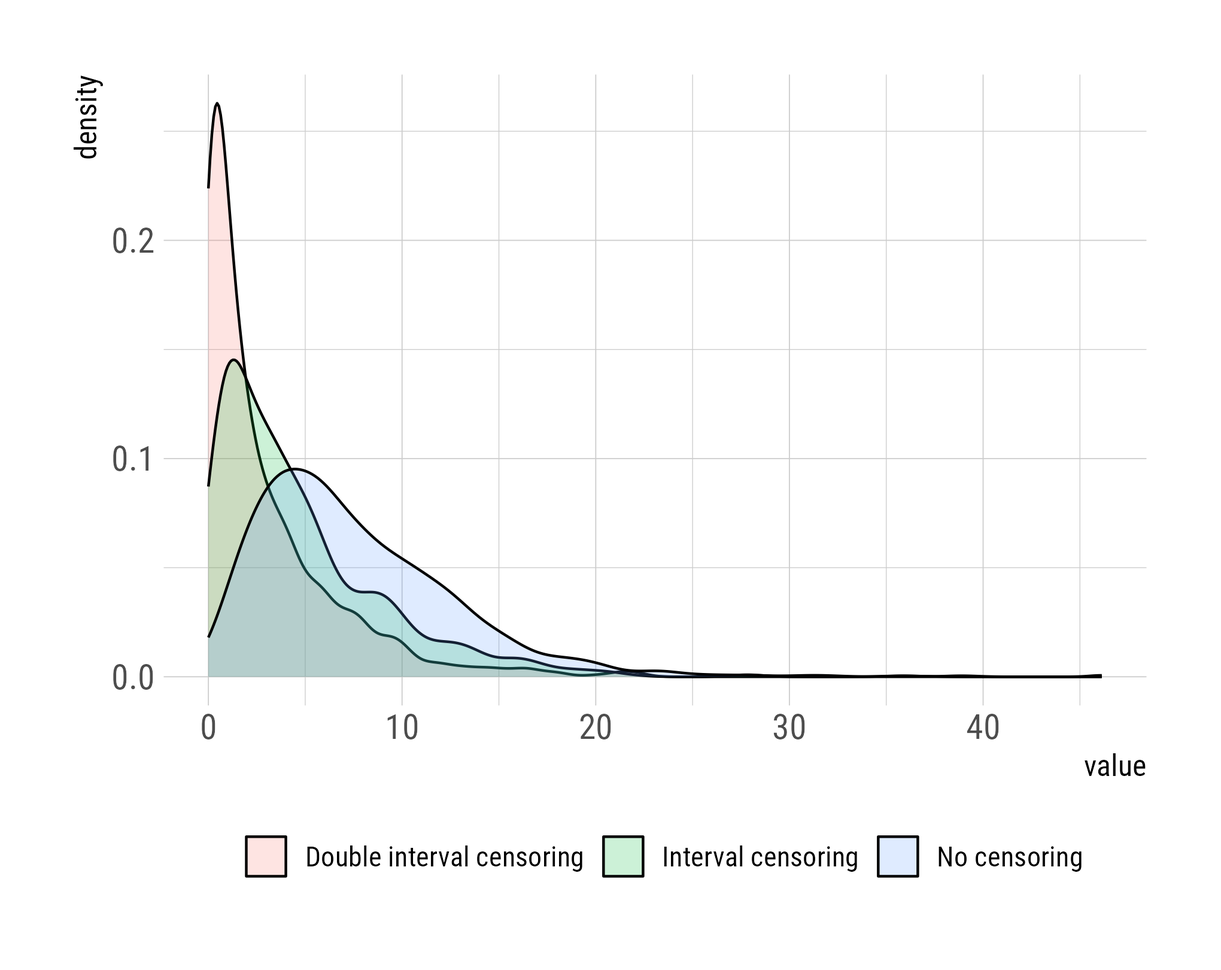
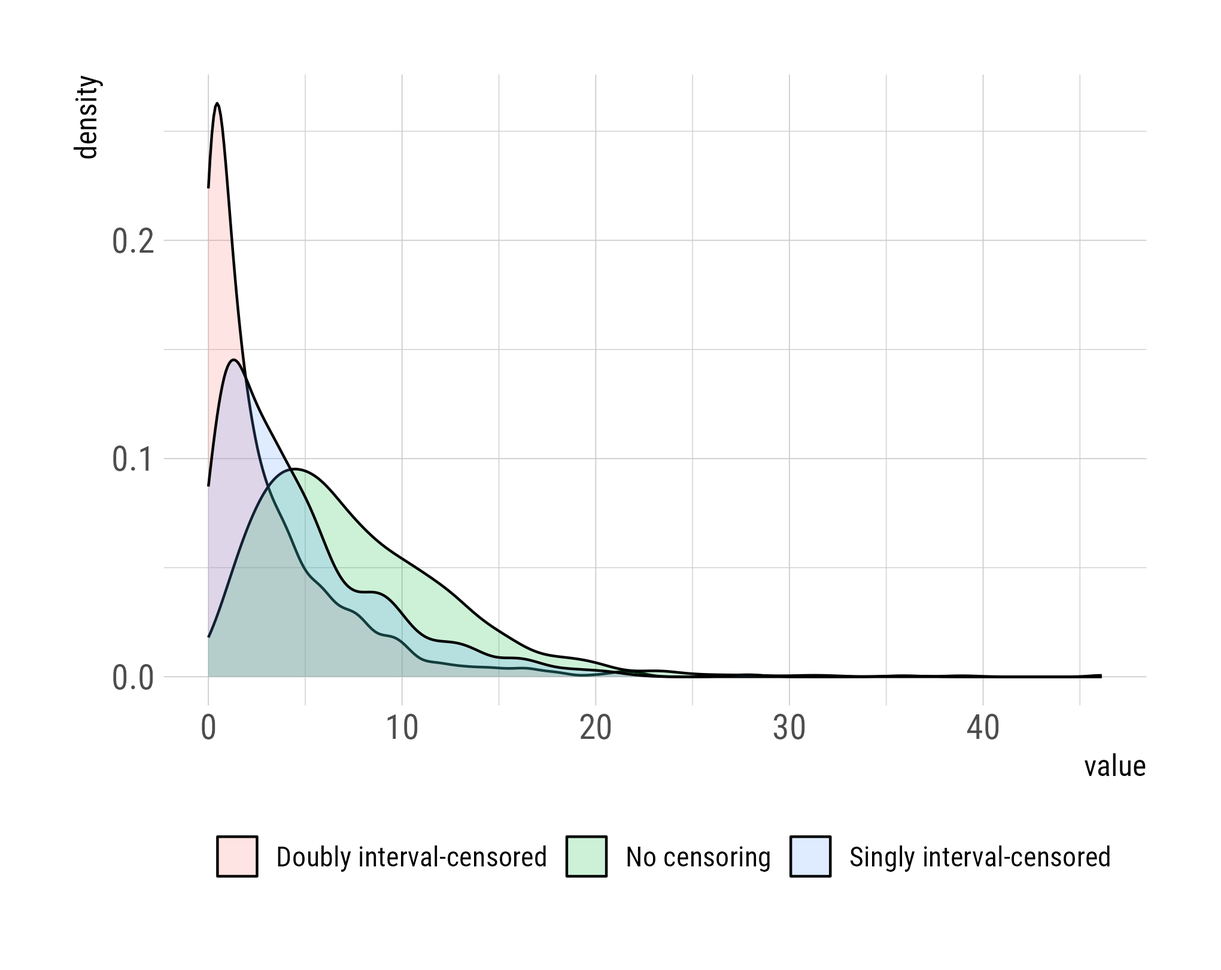
doubly interval-censored data analysis

Changed region(s): [[0.1544, 0.3704, 0.5559, 0.7099], [0.1544, 0.8642, 0.9265, 0.9259]]

diff --git a/docs/posts/double-interval-censoring/index.html b/docs/posts/double-interval-censoring/index.html
@@ -9,7 +9,7 @@
 <meta name="author" content="Jong-Hoon Kim">
 <meta name="dcterms.date" content="2023-11-17">
 
-<title>Jong-Hoon Kim’s Blog - Estimating serial interval: double interval cenoring</title>
+<title>Jong-Hoon Kim’s Blog - Estimating serial interval: doubly interval-censored data</title>
 <style>
 code{white-space: pre-wrap;}
 span.smallcaps{font-variant: small-caps;}
@@ -144,7 +144,7 @@ pre > code.sourceCode > span > a:first-child::before { text-decoration: underlin
 <header id="title-block-header" class="quarto-title-block default page-columns page-full">
   <div class="quarto-title-banner page-columns page-full">
     <div class="quarto-title column-body">
-      <h1 class="title">Estimating serial interval: double interval cenoring</h1>
+      <h1 class="title">Estimating serial interval: doubly interval-censored data</h1>
                                 <div class="quarto-categories">
                 <div class="quarto-category">R</div>
                 <div class="quarto-category">serial interval</div>
@@ -184,9 +184,14 @@ pre > code.sourceCode > span > a:first-child::before { text-decoration: underlin
 
 
 
-<p>In the previous <a href="https://www.jonghoonk.com/posts/interval-censoring/">post</a>, We have covered how we could estimate the serial interval when symptom onset dates of the infectors and the infectees are given as specific dates or either of the two is given as intervals using maximum likelihood estimation method.</p>
-<p>Now suppose that both the dates of onset of the infectors and infectees are given as intervals. This is so called the doubly interval-censored case discussed by <a href="https://onlinelibrary.wiley.com/doi/abs/10.1002/sim.3659">Reich <em>et al</em> 2009</a>. The likelihood function may be given as follows:</p>
-<p><span class="math display">\[\mathcal{L} = \prod_{i=1}^{n} \int_{t^{A}_{Li}}^{t^{A}_{Ri}} \int_{t^B_{Li}}^{t^B_{Ri}} g(\tau) h(s) f(s-\tau) ~\text{d}\tau \text{d}s\]</span> , where <span class="math inline">\(t^A_l, t^A_r, t^B_l, t^B_r\)</span> present the times for lower end and upper end of the interval for the time of onset of the infector and the infectee, respectively. <span class="math inline">\(g(x), h(x)\)</span> represent the probability density function for the time of symptom onset of the infector and the infectee, which we assume follow a uniform distribution.</p>
+<p>We start simple. Our task is to estimate parameters of a probability density function used to model the serial interval. Suppose dates of onsets of infectors, <span class="math inline">\(A\)</span>, and infectees, <span class="math inline">\(B\)</span>, are given as specific dates. Then the likelihood function for the serial interval may be written down as follows:<br>
+<span class="math display">\[\mathcal{L}(X;\theta) = \prod_{i=1}^{n} f_{\theta}(B_i - A_i)\]</span>, where <span class="math inline">\(f\)</span> is the probability density function for the serial interval with the unknown parameters, <span class="math inline">\(\theta\)</span>.</p>
+<p>Now suppose that the dates of symptom onset of the infectors are given as intervals. We can use the following argument also for the case where dates of symptom onset of the infectees are given as intervals. In this case, the above likelihood function may be modified as follows:</p>
+<p><span class="math display">\[\mathcal{L}(X;\theta) = \prod_{i=1}^{n} \int_{A^L_i}^{A^R_i} f_{\theta}(B_i-a) ~\text{d}a\]</span> , where <span class="math inline">\(A^L, A^R, B\)</span> present the times for lower end and upper bound on the potential dates of symptom onset of the infector, and the symptom onset time of the infectee, respectively.</p>
+<p>Now suppose that both the dates of onset of the infectors and infectees are given as intervals. This is so called the doubly interval-censored data discussed by <a href="https://onlinelibrary.wiley.com/doi/abs/10.1002/sim.3659">Reich <em>et al</em> 2009</a>. The likelihood function may be given as follows:</p>
+<p><span class="math display">\[\mathcal{L}(X;\theta,\lambda) = \prod_{i=1}^{n} \int_{A^L_i}^{A^R_i} \int_{B^L_i}^{B^R_i} h_{\lambda}(a) f_{\theta}(b-a) ~\text{d}b \text{d}a\]</span> , where <span class="math inline">\(A^L, A^R, B^L, B^R\)</span> present the times for left and right boundaires on the possible onset times of the infector, <span class="math inline">\(A\)</span>, and the infectee, <span class="math inline">\(B\)</span>, respectively. <span class="math inline">\(h_{\lambda}(x)\)</span> represents the probability density function for the time of symptom onset of the infector, which we assume follows a uniform distribution.</p>
+<p>More detailed analyses of doubly interval-censored data were discussed by <a href="https://onlinelibrary.wiley.com/doi/abs/10.1002/sim.3659">Reich <em>et al</em> 2009</a>. The same concept has recently been applied to estimation of serial interval of CVODI-19 by <a href="https://www.ijidonline.com/article/S1201-9712(20)30119-3/fulltext#supplementaryMaterial">Nishiura <em>et al</em>. 2020</a>.</p>
+<p>In the following codes, we create the fake data set and add intervals such that the serial intervals may become shorter.</p>
 <div class="cell">
 <div class="sourceCode cell-code" id="cb1"><pre class="sourceCode r code-with-copy"><code class="sourceCode r"><span id="cb1-1"><a href="#cb1-1" aria-hidden="true" tabindex="-1"></a><span class="fu">set.seed</span>(<span class="dv">42</span>)</span>
 <span id="cb1-2"><a href="#cb1-2" aria-hidden="true" tabindex="-1"></a>n <span class="ot">&lt;-</span> <span class="dv">100</span></span>
@@ -195,38 +200,39 @@ pre > code.sourceCode > span > a:first-child::before { text-decoration: underlin
 <span id="cb1-5"><a href="#cb1-5" aria-hidden="true" tabindex="-1"></a></span>
 <span id="cb1-6"><a href="#cb1-6" aria-hidden="true" tabindex="-1"></a>onset_infector <span class="ot">&lt;-</span> <span class="fu">sample</span>(<span class="dv">20</span><span class="sc">:</span><span class="dv">30</span>, <span class="at">size=</span>n, <span class="at">replace=</span><span class="cn">TRUE</span>)</span>
 <span id="cb1-7"><a href="#cb1-7" aria-hidden="true" tabindex="-1"></a>onset_infectee <span class="ot">&lt;-</span> onset_infector <span class="sc">+</span> <span class="fu">rgamma</span>(n, <span class="at">shape=</span>shape_true, <span class="at">scale=</span>scale_true)</span>
-<span id="cb1-8"><a href="#cb1-8" aria-hidden="true" tabindex="-1"></a></span>
-<span id="cb1-9"><a href="#cb1-9" aria-hidden="true" tabindex="-1"></a>nll <span class="ot">&lt;-</span> <span class="cf">function</span>(parms, x) <span class="sc">-</span><span class="fu">sum</span>(<span class="fu">dgamma</span>(x, <span class="at">shape=</span>parms[[<span class="dv">1</span>]], <span class="at">scale=</span>parms[[<span class="dv">2</span>]], <span class="at">log=</span><span class="cn">TRUE</span>))</span>
-<span id="cb1-10"><a href="#cb1-10" aria-hidden="true" tabindex="-1"></a></span>
-<span id="cb1-11"><a href="#cb1-11" aria-hidden="true" tabindex="-1"></a>res1 <span class="ot">=</span> <span class="fu">optim</span>(<span class="at">par=</span><span class="fu">c</span>(<span class="dv">1</span>,<span class="dv">2</span>), <span class="at">fn=</span>nll, <span class="at">x=</span>onset_infectee <span class="sc">-</span> onset_infector, <span class="at">method=</span><span class="st">"Nelder-Mead"</span>, <span class="at">control=</span><span class="fu">list</span>(<span class="at">maxit=</span><span class="fl">2e4</span>, <span class="at">reltol=</span><span class="fl">1e-15</span>))</span>
-<span id="cb1-12"><a href="#cb1-12" aria-hidden="true" tabindex="-1"></a></span>
+<span id="cb1-8"><a href="#cb1-8" aria-hidden="true" tabindex="-1"></a>nll <span class="ot">&lt;-</span> <span class="cf">function</span>(parms, x) <span class="sc">-</span><span class="fu">sum</span>(<span class="fu">dgamma</span>(x, <span class="at">shape=</span>parms[[<span class="dv">1</span>]], <span class="at">scale=</span>parms[[<span class="dv">2</span>]], <span class="at">log=</span><span class="cn">TRUE</span>))</span>
+<span id="cb1-9"><a href="#cb1-9" aria-hidden="true" tabindex="-1"></a>res1 <span class="ot">=</span> <span class="fu">optim</span>(<span class="at">par=</span><span class="fu">c</span>(<span class="dv">1</span>,<span class="dv">2</span>), <span class="at">fn=</span>nll, <span class="at">x=</span>onset_infectee <span class="sc">-</span> onset_infector, <span class="at">method =</span> <span class="st">"Nelder-Mead"</span>,</span>
+<span id="cb1-10"><a href="#cb1-10" aria-hidden="true" tabindex="-1"></a>            <span class="at">control =</span> <span class="fu">list</span>(<span class="at">maxit=</span><span class="fl">2e4</span>, <span class="at">reltol=</span><span class="fl">1e-15</span>))</span>
+<span id="cb1-11"><a href="#cb1-11" aria-hidden="true" tabindex="-1"></a></span>
+<span id="cb1-12"><a href="#cb1-12" aria-hidden="true" tabindex="-1"></a><span class="co"># singly interval-censored data</span></span>
 <span id="cb1-13"><a href="#cb1-13" aria-hidden="true" tabindex="-1"></a>tau <span class="ot">&lt;-</span> <span class="fu">sample</span>(<span class="dv">1</span><span class="sc">:</span><span class="dv">5</span>, n, <span class="at">replace=</span><span class="cn">TRUE</span>)</span>
 <span id="cb1-14"><a href="#cb1-14" aria-hidden="true" tabindex="-1"></a>AL <span class="ot">&lt;-</span> onset_infector </span>
-<span id="cb1-15"><a href="#cb1-15" aria-hidden="true" tabindex="-1"></a>AR <span class="ot">&lt;-</span> onset_infector <span class="sc">+</span> <span class="dv">2</span><span class="sc">*</span>tau<span class="co"># this will lead to shorter serial interval</span></span>
+<span id="cb1-15"><a href="#cb1-15" aria-hidden="true" tabindex="-1"></a>AR <span class="ot">&lt;-</span> onset_infector <span class="sc">+</span> <span class="dv">2</span><span class="sc">*</span>tau <span class="co"># this will lead to shorter serial interval</span></span>
 <span id="cb1-16"><a href="#cb1-16" aria-hidden="true" tabindex="-1"></a></span>
-<span id="cb1-17"><a href="#cb1-17" aria-hidden="true" tabindex="-1"></a>nll_interval_censor <span class="ot">&lt;-</span> <span class="cf">function</span>(parms, AL, AR, t){</span>
-<span id="cb1-18"><a href="#cb1-18" aria-hidden="true" tabindex="-1"></a>  <span class="sc">-</span><span class="fu">sum</span>(<span class="fu">log</span>(<span class="fu">dunif</span>(AL, <span class="at">min=</span>AL, <span class="at">max=</span>AR)<span class="sc">*</span>(<span class="fu">pgamma</span>(t<span class="sc">-</span>AL, <span class="at">shape=</span>parms[[<span class="dv">1</span>]], <span class="at">scale=</span>parms[[<span class="dv">2</span>]]) <span class="sc">-</span> <span class="fu">pgamma</span>(t<span class="sc">-</span>AR, <span class="at">shape=</span>parms[[<span class="dv">1</span>]], <span class="at">scale=</span>parms[[<span class="dv">2</span>]]))))</span>
+<span id="cb1-17"><a href="#cb1-17" aria-hidden="true" tabindex="-1"></a>nll_single_censor <span class="ot">&lt;-</span> <span class="cf">function</span>(parms, AL, AR, B){</span>
+<span id="cb1-18"><a href="#cb1-18" aria-hidden="true" tabindex="-1"></a>  <span class="sc">-</span><span class="fu">sum</span>(<span class="fu">log</span>(<span class="fu">pgamma</span>(B<span class="sc">-</span>AL, <span class="at">shape=</span>parms[[<span class="dv">1</span>]], <span class="at">scale=</span>parms[[<span class="dv">2</span>]]) <span class="sc">-</span> <span class="fu">pgamma</span>(B<span class="sc">-</span>AR, <span class="at">shape=</span>parms[[<span class="dv">1</span>]], <span class="at">scale=</span>parms[[<span class="dv">2</span>]])))</span>
 <span id="cb1-19"><a href="#cb1-19" aria-hidden="true" tabindex="-1"></a>}</span>
 <span id="cb1-20"><a href="#cb1-20" aria-hidden="true" tabindex="-1"></a></span>
-<span id="cb1-21"><a href="#cb1-21" aria-hidden="true" tabindex="-1"></a>res2 <span class="ot">=</span> <span class="fu">optim</span>(<span class="at">par=</span><span class="fu">c</span>(<span class="dv">1</span>,<span class="dv">2</span>), <span class="at">fn=</span>nll_interval_censor, <span class="at">AL=</span>AL, <span class="at">AR=</span>AR, </span>
-<span id="cb1-22"><a href="#cb1-22" aria-hidden="true" tabindex="-1"></a>             <span class="at">t=</span>onset_infectee, <span class="at">method=</span><span class="st">"Nelder-Mead"</span>,</span>
+<span id="cb1-21"><a href="#cb1-21" aria-hidden="true" tabindex="-1"></a>res2 <span class="ot">=</span> <span class="fu">optim</span>(<span class="at">par=</span><span class="fu">c</span>(<span class="dv">1</span>,<span class="dv">2</span>), <span class="at">fn=</span>nll_single_censor, <span class="at">AL=</span>AL, <span class="at">AR=</span>AR, </span>
+<span id="cb1-22"><a href="#cb1-22" aria-hidden="true" tabindex="-1"></a>             <span class="at">B=</span>onset_infectee, <span class="at">method=</span><span class="st">"Nelder-Mead"</span>,</span>
 <span id="cb1-23"><a href="#cb1-23" aria-hidden="true" tabindex="-1"></a>            <span class="at">control =</span> <span class="fu">list</span>(<span class="at">maxit=</span><span class="fl">2e4</span>, <span class="at">reltol=</span><span class="fl">1e-15</span>))</span>
 <span id="cb1-24"><a href="#cb1-24" aria-hidden="true" tabindex="-1"></a></span>
-<span id="cb1-25"><a href="#cb1-25" aria-hidden="true" tabindex="-1"></a>BL <span class="ot">&lt;-</span> onset_infectee <span class="sc">-</span> <span class="dv">2</span><span class="sc">*</span>tau <span class="co"># this will lead to even shorter serial interval</span></span>
-<span id="cb1-26"><a href="#cb1-26" aria-hidden="true" tabindex="-1"></a>BR <span class="ot">&lt;-</span> onset_infectee</span>
-<span id="cb1-27"><a href="#cb1-27" aria-hidden="true" tabindex="-1"></a></span>
-<span id="cb1-28"><a href="#cb1-28" aria-hidden="true" tabindex="-1"></a>nll_double_interval_censor <span class="ot">&lt;-</span> <span class="cf">function</span>(parms, AL, AR, BL, BR){</span>
-<span id="cb1-29"><a href="#cb1-29" aria-hidden="true" tabindex="-1"></a>  <span class="sc">-</span><span class="fu">sum</span>(<span class="fu">log</span>(<span class="fu">dunif</span>(AL, <span class="at">min=</span>AL, <span class="at">max=</span>AR)<span class="sc">*</span><span class="fu">dunif</span>(BL, <span class="at">min=</span>BL, <span class="at">max=</span>BR)<span class="sc">*</span>(<span class="fu">pgamma</span>(BR<span class="sc">-</span>AL, <span class="at">shape=</span>parms[[<span class="dv">1</span>]], <span class="at">scale=</span>parms[[<span class="dv">2</span>]]) <span class="sc">-</span> <span class="fu">pgamma</span>(BL<span class="sc">-</span>AR, <span class="at">shape=</span>parms[[<span class="dv">1</span>]], <span class="at">scale=</span>parms[[<span class="dv">2</span>]]))))</span>
-<span id="cb1-30"><a href="#cb1-30" aria-hidden="true" tabindex="-1"></a>}</span>
-<span id="cb1-31"><a href="#cb1-31" aria-hidden="true" tabindex="-1"></a></span>
-<span id="cb1-32"><a href="#cb1-32" aria-hidden="true" tabindex="-1"></a>res3 <span class="ot">=</span> <span class="fu">optim</span>(<span class="at">par=</span><span class="fu">c</span>(<span class="dv">1</span>,<span class="dv">2</span>), <span class="at">fn=</span>nll_double_interval_censor, <span class="at">AL=</span>AL, <span class="at">AR=</span>AR,</span>
-<span id="cb1-33"><a href="#cb1-33" aria-hidden="true" tabindex="-1"></a>             <span class="at">BL=</span>BL, <span class="at">BR=</span>BR, <span class="at">method=</span><span class="st">"Nelder-Mead"</span>,</span>
-<span id="cb1-34"><a href="#cb1-34" aria-hidden="true" tabindex="-1"></a>            <span class="at">control=</span><span class="fu">list</span>(<span class="at">maxit=</span><span class="fl">2e4</span>, <span class="at">reltol=</span><span class="fl">1e-15</span>))</span>
-<span id="cb1-35"><a href="#cb1-35" aria-hidden="true" tabindex="-1"></a></span>
-<span id="cb1-36"><a href="#cb1-36" aria-hidden="true" tabindex="-1"></a>x1 <span class="ot">&lt;-</span> <span class="fu">rgamma</span>(<span class="fl">1e3</span>, <span class="at">shape=</span>res1<span class="sc">$</span>par[[<span class="dv">1</span>]], <span class="at">scale=</span>res1<span class="sc">$</span>par[[<span class="dv">2</span>]])</span>
-<span id="cb1-37"><a href="#cb1-37" aria-hidden="true" tabindex="-1"></a>x2 <span class="ot">&lt;-</span> <span class="fu">rgamma</span>(<span class="fl">1e3</span>, <span class="at">shape=</span>res2<span class="sc">$</span>par[[<span class="dv">1</span>]], <span class="at">scale=</span>res2<span class="sc">$</span>par[[<span class="dv">2</span>]])</span>
-<span id="cb1-38"><a href="#cb1-38" aria-hidden="true" tabindex="-1"></a>x3 <span class="ot">&lt;-</span> <span class="fu">rgamma</span>(<span class="fl">1e3</span>, <span class="at">shape=</span>res3<span class="sc">$</span>par[[<span class="dv">1</span>]], <span class="at">scale=</span>res3<span class="sc">$</span>par[[<span class="dv">2</span>]])</span>
-<span id="cb1-39"><a href="#cb1-39" aria-hidden="true" tabindex="-1"></a><span class="fu">summary</span>(x1)</span></code><button title="Copy to Clipboard" class="code-copy-button"><i class="bi"></i></button></pre></div>
+<span id="cb1-25"><a href="#cb1-25" aria-hidden="true" tabindex="-1"></a><span class="co"># doubly interval-censored data</span></span>
+<span id="cb1-26"><a href="#cb1-26" aria-hidden="true" tabindex="-1"></a>BL <span class="ot">&lt;-</span> onset_infectee <span class="sc">-</span> <span class="dv">2</span><span class="sc">*</span>tau <span class="co"># this will lead to even shorter serial interval</span></span>
+<span id="cb1-27"><a href="#cb1-27" aria-hidden="true" tabindex="-1"></a>BR <span class="ot">&lt;-</span> onset_infectee</span>
+<span id="cb1-28"><a href="#cb1-28" aria-hidden="true" tabindex="-1"></a></span>
+<span id="cb1-29"><a href="#cb1-29" aria-hidden="true" tabindex="-1"></a>nll_double_censor <span class="ot">&lt;-</span> <span class="cf">function</span>(parms, AL, AR, BL, BR){</span>
+<span id="cb1-30"><a href="#cb1-30" aria-hidden="true" tabindex="-1"></a>  <span class="sc">-</span><span class="fu">sum</span>(<span class="fu">log</span>(<span class="fu">dunif</span>(AL, <span class="at">min=</span>AL, <span class="at">max=</span>AR)<span class="sc">*</span>(<span class="fu">pgamma</span>(BR<span class="sc">-</span>AL, <span class="at">shape=</span>parms[[<span class="dv">1</span>]], <span class="at">scale=</span>parms[[<span class="dv">2</span>]]) <span class="sc">-</span> <span class="fu">pgamma</span>(BL<span class="sc">-</span>AR, <span class="at">shape=</span>parms[[<span class="dv">1</span>]], <span class="at">scale=</span>parms[[<span class="dv">2</span>]]))))</span>
+<span id="cb1-31"><a href="#cb1-31" aria-hidden="true" tabindex="-1"></a>}</span>
+<span id="cb1-32"><a href="#cb1-32" aria-hidden="true" tabindex="-1"></a></span>
+<span id="cb1-33"><a href="#cb1-33" aria-hidden="true" tabindex="-1"></a>res3 <span class="ot">=</span> <span class="fu">optim</span>(<span class="at">par=</span><span class="fu">c</span>(<span class="dv">1</span>,<span class="dv">2</span>), <span class="at">fn=</span>nll_double_censor, <span class="at">AL=</span>AL, <span class="at">AR=</span>AR,</span>
+<span id="cb1-34"><a href="#cb1-34" aria-hidden="true" tabindex="-1"></a>             <span class="at">BL=</span>BL, <span class="at">BR=</span>BR, <span class="at">method=</span><span class="st">"Nelder-Mead"</span>,</span>
+<span id="cb1-35"><a href="#cb1-35" aria-hidden="true" tabindex="-1"></a>            <span class="at">control=</span><span class="fu">list</span>(<span class="at">maxit=</span><span class="fl">2e4</span>, <span class="at">reltol=</span><span class="fl">1e-15</span>))</span>
+<span id="cb1-36"><a href="#cb1-36" aria-hidden="true" tabindex="-1"></a></span>
+<span id="cb1-37"><a href="#cb1-37" aria-hidden="true" tabindex="-1"></a>x1 <span class="ot">&lt;-</span> <span class="fu">rgamma</span>(<span class="fl">1e3</span>, <span class="at">shape=</span>res1<span class="sc">$</span>par[[<span class="dv">1</span>]], <span class="at">scale=</span>res1<span class="sc">$</span>par[[<span class="dv">2</span>]])</span>
+<span id="cb1-38"><a href="#cb1-38" aria-hidden="true" tabindex="-1"></a>x2 <span class="ot">&lt;-</span> <span class="fu">rgamma</span>(<span class="fl">1e3</span>, <span class="at">shape=</span>res2<span class="sc">$</span>par[[<span class="dv">1</span>]], <span class="at">scale=</span>res2<span class="sc">$</span>par[[<span class="dv">2</span>]])</span>
+<span id="cb1-39"><a href="#cb1-39" aria-hidden="true" tabindex="-1"></a>x3 <span class="ot">&lt;-</span> <span class="fu">rgamma</span>(<span class="fl">1e3</span>, <span class="at">shape=</span>res3<span class="sc">$</span>par[[<span class="dv">1</span>]], <span class="at">scale=</span>res3<span class="sc">$</span>par[[<span class="dv">2</span>]])</span>
+<span id="cb1-40"><a href="#cb1-40" aria-hidden="true" tabindex="-1"></a><span class="fu">summary</span>(x1)</span></code><button title="Copy to Clipboard" class="code-copy-button"><i class="bi"></i></button></pre></div>
 <div class="cell-output cell-output-stdout">
 <pre><code>   Min. 1st Qu.  Median    Mean 3rd Qu.    Max. 
  0.1677  3.8165  6.4303  7.5411 10.3268 36.0535 </code></pre>
@@ -239,10 +245,10 @@ pre > code.sourceCode > span > a:first-child::before { text-decoration: underlin
 <div class="sourceCode cell-code" id="cb5"><pre class="sourceCode r code-with-copy"><code class="sourceCode r"><span id="cb5-1"><a href="#cb5-1" aria-hidden="true" tabindex="-1"></a><span class="fu">summary</span>(x3)</span></code><button title="Copy to Clipboard" class="code-copy-button"><i class="bi"></i></button></pre></div>
 <div class="cell-output cell-output-stdout">
 <pre><code>    Min.  1st Qu.   Median     Mean  3rd Qu.     Max. 
- 0.00001  0.36330  1.48009  2.92934  4.04038 46.12811 </code></pre>
+ 0.00001  0.36330  1.48009  2.92934  4.04038 46.12810 </code></pre>
 </div>
-<div class="sourceCode cell-code" id="cb7"><pre class="sourceCode r code-with-copy"><code class="sourceCode r"><span id="cb7-1"><a href="#cb7-1" aria-hidden="true" tabindex="-1"></a>df <span class="ot">=</span> <span class="fu">data.frame</span>(<span class="at">model=</span><span class="fu">rep</span>(<span class="fu">c</span>(<span class="st">"No censoring"</span>, <span class="st">"Interval censoring"</span>,</span>
-<span id="cb7-2"><a href="#cb7-2" aria-hidden="true" tabindex="-1"></a>                            <span class="st">"Double interval censoring"</span>), <span class="at">each=</span><span class="fl">1e3</span>),</span>
+<div class="sourceCode cell-code" id="cb7"><pre class="sourceCode r code-with-copy"><code class="sourceCode r"><span id="cb7-1"><a href="#cb7-1" aria-hidden="true" tabindex="-1"></a>df <span class="ot">=</span> <span class="fu">data.frame</span>(<span class="at">model=</span><span class="fu">rep</span>(<span class="fu">c</span>(<span class="st">"No censoring"</span>, <span class="st">"Singly interval-censored"</span>,</span>
+<span id="cb7-2"><a href="#cb7-2" aria-hidden="true" tabindex="-1"></a>                            <span class="st">"Doubly interval-censored"</span>), <span class="at">each=</span><span class="fl">1e3</span>),</span>
 <span id="cb7-3"><a href="#cb7-3" aria-hidden="true" tabindex="-1"></a>                <span class="at">val=</span><span class="fu">c</span>(x1,x2, x3))</span>
 <span id="cb7-4"><a href="#cb7-4" aria-hidden="true" tabindex="-1"></a></span>
 <span id="cb7-5"><a href="#cb7-5" aria-hidden="true" tabindex="-1"></a><span class="fu">library</span>(ggplot2)</span>
@@ -254,7 +260,7 @@ pre > code.sourceCode > span > a:first-child::before { text-decoration: underlin
 <span id="cb7-11"><a href="#cb7-11" aria-hidden="true" tabindex="-1"></a>  <span class="fu">theme</span>(<span class="at">legend.position =</span> <span class="st">"bottom"</span>, </span>
 <span id="cb7-12"><a href="#cb7-12" aria-hidden="true" tabindex="-1"></a>        <span class="at">legend.title =</span> <span class="fu">element_blank</span>())</span></code><button title="Copy to Clipboard" class="code-copy-button"><i class="bi"></i></button></pre></div>
 <div class="cell-output-display">
-<p><img src="index_files/figure-html/unnamed-chunk-1-1.png" class="img-fluid" width="672"></p>
+<p><img src="index_files/figure-html/no_censoring-1.png" class="img-fluid" width="672"></p>
 </div>
 <div class="sourceCode cell-code" id="cb8"><pre class="sourceCode r code-with-copy"><code class="sourceCode r"><span id="cb8-1"><a href="#cb8-1" aria-hidden="true" tabindex="-1"></a><span class="co"># ggsave("double_interval_censor.png", gg, units="in", width=3.4*2, height=2.7*2)</span></span></code><button title="Copy to Clipboard" class="code-copy-button"><i class="bi"></i></button></pre></div>
 </div>

diff --git a/docs/index.html b/docs/index.html
@@ -171,14 +171,14 @@ ul.task-list li input[type="checkbox"] {
 
 <div class="quarto-listing quarto-listing-container-default" id="listing-listing">
 <div class="list quarto-listing-default">
-<div class="quarto-post image-right" data-index="0" data-categories="R,serial interval,interval censoring" data-listing-date-sort="1700146800000" data-listing-file-modified-sort="1700179766780" data-listing-date-modified-sort="NaN" data-listing-reading-time-sort="3">
+<div class="quarto-post image-right" data-index="0" data-categories="R,serial interval,interval censoring" data-listing-date-sort="1700146800000" data-listing-file-modified-sort="1700220221148" data-listing-date-modified-sort="NaN" data-listing-reading-time-sort="3">
 <div class="thumbnail">
 <p><a href="./posts/double-interval-censoring/index.html"> <img src="./posts/double-interval-censoring/double_interval_censor.png" class="thumbnail-image"> </a></p>
 </div>
 <div class="body">
 <a href="./posts/double-interval-censoring/index.html">
 <h3 class="no-anchor listing-title">
-Estimating serial interval: double interval cenoring
+Estimating serial interval: doubly interval-censored data
 </h3>
 <div class="listing-subtitle">
 
@@ -197,7 +197,7 @@ interval censoring
 </div>
 <a href="./posts/double-interval-censoring/index.html">
 <div class="listing-description">
-In the previous post, We have covered how we could estimate the serial interval when symptom…
+We start simple. Our task is to estimate parameters of a probability density function used to model the serial interval. Suppose dates of onsets of infectors, <span class="math inline">\(A\)</span>…<span class="math inline"></span><br><span class="math display"></span><span class="math inline"></span><span class="math inline"></span>
 </div>
 </a>
 </div>
@@ -212,7 +212,7 @@ Jong-Hoon Kim
 </a>
 </div>
 </div>
-<div class="quarto-post image-right" data-index="1" data-categories="R,serial interval,interval censoring,MLE" data-listing-date-sort="1699974000000" data-listing-file-modified-sort="1700179764911" data-listing-date-modified-sort="NaN" data-listing-reading-time-sort="2">
+<div class="quarto-post image-right" data-index="1" data-categories="R,serial interval,interval censoring,MLE" data-listing-date-sort="1699974000000" data-listing-file-modified-sort="1700218806862" data-listing-date-modified-sort="NaN" data-listing-reading-time-sort="2">
 <div class="thumbnail">
 <p><a href="./posts/interval-censoring/index.html"> <img src="./posts/interval-censoring/interval_censor.png" class="thumbnail-image"> </a></p>
 </div>
